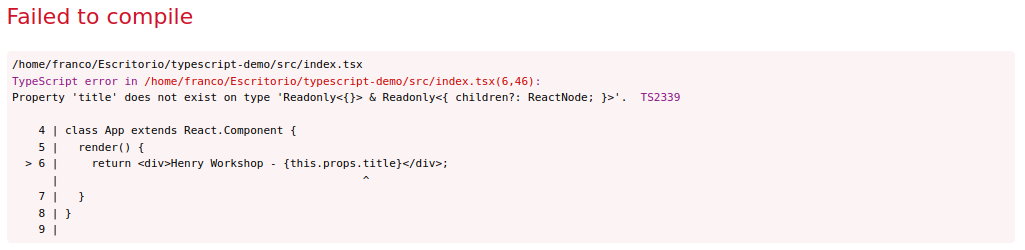
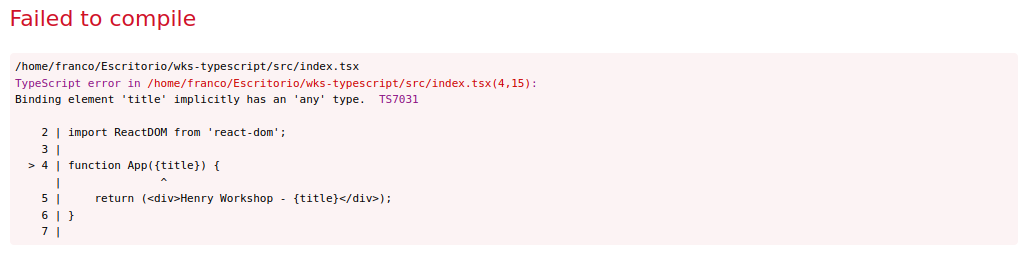
Add more instructions + fix wrong img

diff --git a/README.md b/README.md
@@ -13,14 +13,13 @@ Para crear la estructura de proyecto se ejecuto el comando
 ```
 Si quieren iniciarlo desde cero pueden volver a hacerlo o directamente forkear este repositorio y trabajar a partir de eso. De elegir esta segunda opción no olviden de realizar el `npm install` para instalar las dependencias necesarias para correr el proyecto.
 
-Una vez realizado esto pueden ver como si ejecutan `npm start` les va a correr una aplicación base de forma local.
+Para simplificar un poco la estrucutra que genera el script de React se eliminaron los archivos innecesarios por lo que para comenzar van a tener que crear la carpeta `src` y allí ir colocando los archivos necesarios.
 
 ## WARM UP
 
-
 ### Componentes
 
-Vamos a crear nustro componente principal como ya sabíamos en React, sin nada nuevo por lo que simplemente crearemos el archivo `index.tsx` dentro de la carpeta `src` con el siguiente código:
+Una vez creada la carpeta `src` vamos a crear nustro componente principal como ya sabíamos en React, sin nada nuevo por lo que simplemente crearemos el archivo `index.tsx` (extensión tsx en vez de jsx al ser Typescript) dentro de la carpeta `src` con el siguiente código:
 
 ```javascript
 import React from 'react';
@@ -35,6 +34,8 @@ ReactDOM.render(
   document.querySelector('#root')
 );
 ```
+
+Si ejecutamos `npm start` ya tendremos nuestra aplicación corriendo de forma local.
 
 #### Props
 
@@ -59,7 +60,9 @@ Si vamos a nuestra aplicación veremos lo siguiente:
   <img src="./img-screens/1.png" />
 </p>
 
-En Typescript necesitamos informar los tipos de datos de las propiedades que va a recibir cada componente, para ello utilizaremos una `interface`. Adicionalmente es una buena práctica si utilizamos componentes funcionales determinar el tipo de dato que va a retornar dicha función y no dejarlo libre para que Typescript haga la inferencia de datos. En este caso lo que estamos retornando es un JSX por lo que agregamos `JSX.Element`.
+Como ya vimos durante la parte teórica, en Typescript necesitamos informar los tipos de datos que vamos a utilizat, en este caso de las propiedades que va a recibir cada componente, para ello utilizaremos una `interface`. Adicionalmente es una buena práctica si utilizamos componentes funcionales determinar el tipo de dato que va a retornar dicha función y no dejarlo libre para que Typescript haga la inferencia de datos. En este caso lo que estamos retornando es un JSX por lo que agregamos `JSX.Element`.
+
+*NOTA: Recuerden que este error lo está arrojando porque en el archivo tsconfig.json tenemos seteado el flag strict en true por lo que no va a permitir inferencias al tipo any en ninguna parte de nuestra aplicación pero si lo modificamos a false, va a compilar correctamente*
 
 ```javascript
 interface AppProps {
@@ -157,7 +160,7 @@ class App extends React.Component<AppProps, AppState> {
 Existe otra posibilidad para simplificar la sintaxis del código en el caso de utilizar `Class` que es la siguiente. Sin definir la interfaz del state podemos sobreescribir state dentro del componente:
 
 ```javascript
-class App extends React.Component<AppProps, AppState> {
+class App extends React.Component<AppProps> {
   state = {counter: 0};
 
   ...
@@ -166,7 +169,7 @@ class App extends React.Component<AppProps, AppState> {
 
 ## Enunciado
 
-Lo anterior fue simplemente para practicar el armado de un componente ya sea funcional o de clase pero ahora lo que vamos a intentar hacer es una aplicación utilizando también Redux que consuma una API externa (https://jsonplaceholder.typicode.com/) y muestre los resultados obtenidos. Por lo tanto los componentes que habíamos hecho hasta recién lamentablemente no van a servirnos más por lo que pueden ya eliminarlos y comenzar nuevaemente de cero.
+Lo anterior fue simplemente para practicar el armado de un componente ya sea funcional o de clase pero ahora lo que vamos a intentar hacer es una aplicación utilizando también Redux que consuma una API externa (https://jsonplaceholder.typicode.com/) y muestre los resultados obtenidos. Por lo tanto los componentes que habíamos hecho hasta recién lamentablemente no van a servirnos más por lo que pueden ya eliminarlos y comenzar nuevamente de cero.
 
 <p align="center">
   <img src="./img-screens/3.jpeg" />
@@ -184,7 +187,7 @@ En las dependencias del package.json del boilerplate ya van a estar incluidas `r
 
 Crearemos una carpeta llamada `components` para poner allí todo los componentes que vayamos a necesitar para la aplicación.
 
-Comenzaremos con el componente principal de la aplicación al que llamaremos `App`, como ya les explicamos anteriormente como crearlos no tendrán el código para esta parte... tendrán que hacerlo ustedes. La idea es que por el momento el componente simplemente retorne un `<div>` con el texto que deseen.
+Comenzaremos con el componente principal de la aplicación al que llamaremos `App` (recordar la extensión tsx), como ya les explicamos anteriormente como crearlos no tendrán el código para esta parte... tendrán que hacerlo ustedes. La idea es que por el momento el componente simplemente retorne un `<div>` con el texto que deseen.
 
 Ahora hagamos que en nustro `index.tsx` se importe dicho componente para poder utilizarlo (Recordar exportar el componente en `App.tsx` para poder hacer este paso):
 
@@ -352,6 +355,29 @@ Y ahora debemos aclarar que el método get de axios espera recibir algo con esa 
 ...
 ```
 
+Acá entra en juego lo que vimos en la clase de `Generics`, ya que axios tiene definida la función `get` de la siguiente forma:
+
+```javascript
+...
+  get<T = any, R = AxiosResponse<T>>(url: string, config?: AxiosRequestConfig): Promise<R>;
+...
+```
+
+[Link](https://github.com/axios/axios/blob/master/index.d.ts#L140) a la documentación de axios donde expone sus interfaces. Incluso podriamos ver como es la estructura completa de la respuesta buscando ese `AxiosResponse`:
+
+```javascript
+export interface AxiosResponse<T = any>  {
+  data: T;
+  status: number;
+  statusText: string;
+  headers: any;
+  config: AxiosRequestConfig;
+  request?: any;
+}
+```
+
+Allí veremos que dentro del response, y particularmente en la propiedad `data` tendremos algo que se corresponda con el tipo de dato que le indiquemos que en nuestro caso debería ser un `Post[]`. Si no lo indicabamos estaba asumiendo que podía ser cualquier cosa (`any`).
+
 Ahora crearemos una forma de tener de forma prolija todos los tipos de las actions que vamos a querer despachar. En este caso para ello crearemos un `Enum` dentro de un nuevo archivo `types.ts` en la carpeta `actions`.
 
 ```javascript
@@ -410,12 +436,12 @@ Esto nos va a asegurar que en el dispatch estemos pasando un objeto con la estru
 
 #### Reducer
 
-Volvemos a trabajar un poco más sobre nuestro reducer, pero lo que teniamos antes del `counter` ya no va a servirnos por lo que lo sacaremos y esta vez configuraremos los reducers basandonos en la idea que más adelante tendremos más por lo tanto utilizaremos el combineReducers.
+Volvemos a trabajar un poco más sobre nuestro reducer, pero lo que teníamos antes del `counter` ya no va a servirnos por lo que lo sacaremos y esta vez configuraremos los reducers basándonos en la idea que más adelante tendremos más por lo tanto utilizaremos el combineReducers.
 
 Algunos cambios que tienen que hacer:
 
   * Opcional: cambiar el import en store para que se llame `reducers` (en plural) porque utilizaremos un combineReducers ahora. Esto simplemente es para ser más representativos con los nombres que utilizamos pero si no lo cambian va a seguir funcionando correctamente: `import { reducers } from '../reducers/index';`
-  * Modificaremos el archivo de reducer momentaneamente por lo siguiente:
+  * Modificaremos el archivo de reducer momentáneamente por lo siguiente:
 
 ```javascript
 import { combineReducers } from 'redux';
@@ -425,7 +451,7 @@ export const reducers = combineReducers({
 });
   ```
 
-Ahora vamos vamos a modificarlo para adaptarlo a la aplicación de "Posts". Primero vamos a importar la interfaz de Post desde actions para ello no olviden agregarle un `export`. Por otro lado crearemos un archivo `posts.ts` en la carpeta `reducers`.
+Ahora vamos vamos a modificarlo para adaptarlo a la aplicación de "Posts". Primero vamos a un archivo `posts.ts` en la carpeta `reducers` e importar la interfaz de Post desde actions para ello no olviden agregarle un `export`.
 
 ```javascript
 import { Post, FetchPostAction } from '../actions';
@@ -476,7 +502,7 @@ __Recordatorio__: el estado de redux cuando usamos un combineReducers quedaría 
 
 ```javascript
 {
-  todos: [Todo, Todo] // Donde Todo sería un objeto del tipo Todo
+  posts: [Post, Post] // Donde Post sería un objeto del tipo Post
 }
 ```
 
